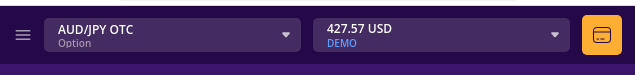
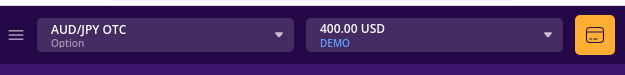
header: improv recog

Changed region(s): [[0.8512, 0.1867, 1.0, 0.7467], [0.4256, 0.2667, 0.6384, 0.6667], [0.0, 0.24, 0.2128, 0.6933]]

diff --git a/engine/SmartTrader.py b/engine/SmartTrader.py
@@ -479,12 +479,12 @@ class SmartTrader:
         if self.broker['id'] == 'iqcent':
             if zone_id == 'header':
                 if element_id == 'asset':
-                    left = width * 0.08
+                    left = width * 0.07
                     top = height * 0.26
                     right = width * 0.40
                     bottom = height * 0.52
                 elif element_id == 'balance':
-                    left = width * 0.50
+                    left = width * 0.49
                     top = height * 0.26
                     right = width * 0.80
                     bottom = height * 0.52
@@ -1211,7 +1211,7 @@ class SmartTrader:
             pid = subprocess.Popen(args,
                                    shell=False,
                                    stdin=None,
-                                   stdout=None, 
+                                   stdout=None,
                                    stderr=None,
                                    close_fds=True).pid
         sleep(3)

diff --git a/engine/settings.py b/engine/settings.py
@@ -4,7 +4,7 @@ import tempfile
 
 
 # DEBUG
-DEBUG_OCR = False
+DEBUG_OCR = True
 DEBUG_MSG = True
 
 # VALIDATION
